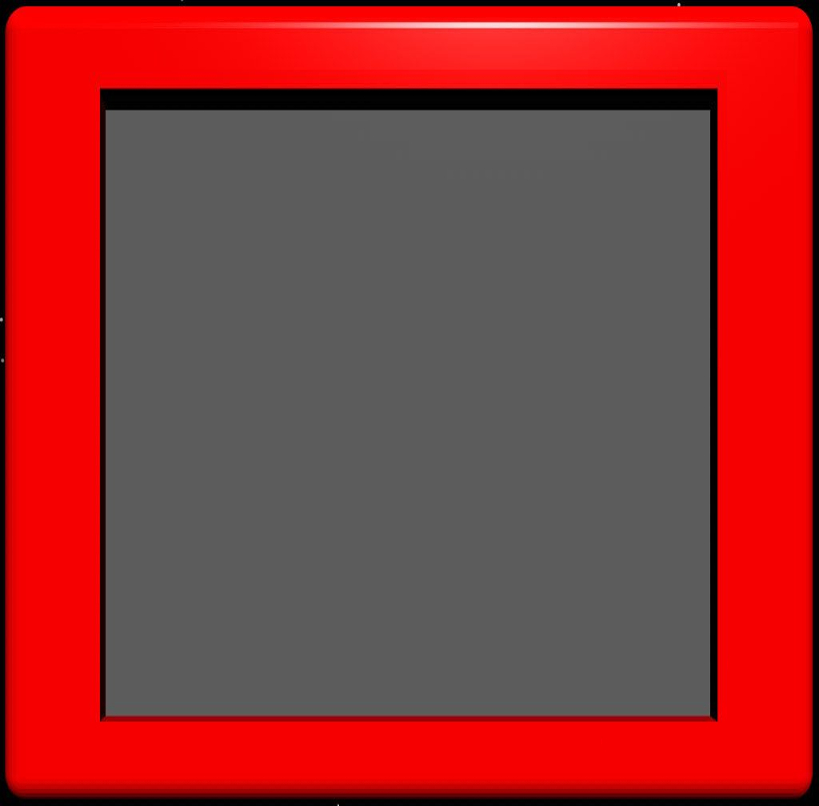
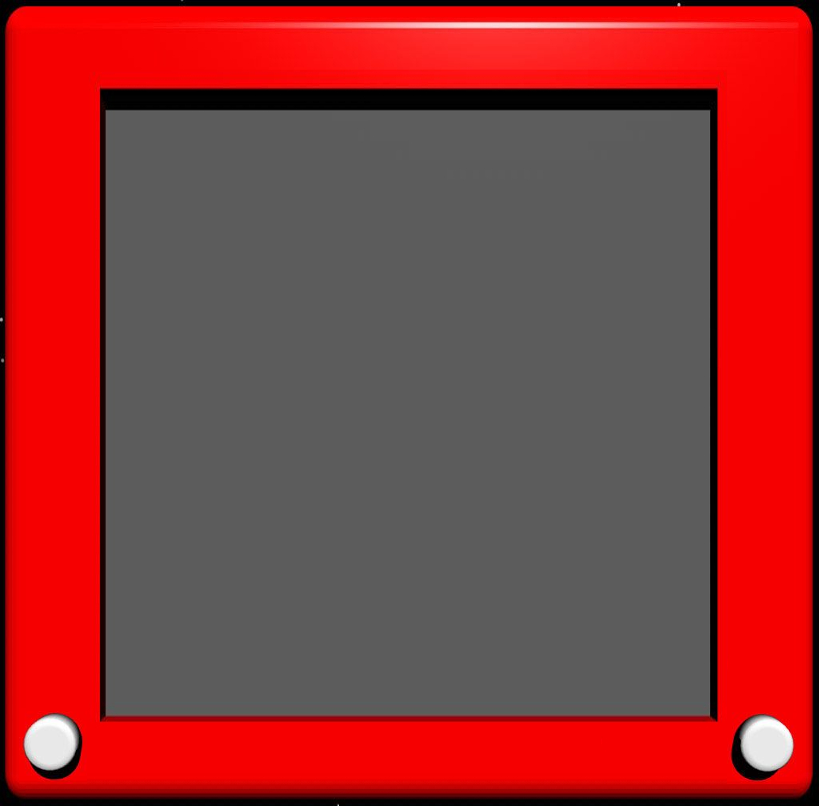
Made buttons pretty.  Made drawing less opaque

Changed region(s): [[0.0305, 0.8685, 0.1221, 0.9926], [0.8852, 0.8685, 0.9768, 0.9926]]

diff --git a/js/script.js b/js/script.js
@@ -1,5 +1,7 @@
 const canvas = document.getElementById(`canvas`);
 const resetBtn = document.getElementById(`reset-btn`);
+const setBtn = document.getElementById(`set-btn`);
+let pixelRes = 128;
 
 function clearCanvas() {
   while (canvas.lastElementChild) {
@@ -14,6 +16,8 @@ function createCanvas(pixelNum) {
   for (let i = 0; i < pixelNum**2; i++) {
     let pixel = document.createElement(`div`);
     pixel.classList.add(`pixels`);
+    pixel.style.backgroundColor = `#5c5c5c`;
+    pixel.style.opacity = 1;
     canvas.appendChild(pixel);
     pixel.addEventListener(`mouseover`, () => {
       changePixelColor(i)
@@ -22,19 +26,24 @@ function createCanvas(pixelNum) {
 }
 
 function changePixelColor(index) {
-  let pixel = document.querySelectorAll(`.pixels`);
-  pixel[index].style.backgroundColor = `black`;
+  let pixel = document.querySelectorAll(`.pixels`)[index];
+  let pixelOpacity = pixel.style.opacity - 0.33;
+  pixel.style.opacity = pixelOpacity;
+}
+
+function setPixelRes() {
+  let pixelNum = prompt(`How many pixels should there be on each side?`);
+  if (isNaN(pixelNum)) {
+    setPixels();
+  } else {
+    return pixelNum;
+  }
 }
 
 resetBtn.addEventListener(`click`, () => {
-  let pixelNum = prompt(`How many pixels should there be on each side?`);
-  if (isNaN(pixelNum)) pixelNum = prompt(`Please enter only numbers`);
+  let pixelNum = setPixelRes();
+  if (pixelNum < 1 || !pixelNum) return;
   createCanvas(pixelNum);
 })
 
-canvas.addEventListener(`click`, (e) => {
-  console.log(e);
-  console.log(e.target.dataset);
-})
-
-createCanvas(128);
+createCanvas(pixelRes);

diff --git a/styles/main.css b/styles/main.css
@@ -21,16 +21,32 @@ body {
   margin-right: auto;
   top: 110px;
   right: 2px;
-  background-color: #5c5c5c;
+  background-color: #000;
   display: grid;
 }
 
-#btn-div {
-  height: 30px;
+#reset-div {
+  height: 50px;
   width: 120px;
   position: relative;
-  top: 142px;
-  left: 17px;
   margin-left: auto;
   margin-right: auto;
+  top: 131px;
+}
+
+#reset-btn {
+  height: 40px;
+  width: 80px;
+  background-color: #e8e8e8;
+  border: 1px solid #c4c3c2;
+  box-shadow: 0px 5px 4px 1px rgb(0, 0, 0, 1);
+  border-radius: 5px;
+  position: relative;
+  margin-left: 20px;
+  margin-right: auto;
+}
+
+#reset-btn:hover {
+  background-color: #dedede;
+  border: 1px solid #b3b2b1;
 }

diff --git a/index.html b/index.html
@@ -13,7 +13,7 @@
 			<div id="canvas">
 
 			</div>
-			<div id="btn-div">
+			<div id="reset-div">
 				<button id="reset-btn">Reset</button>
 			</div>
 		</div>
